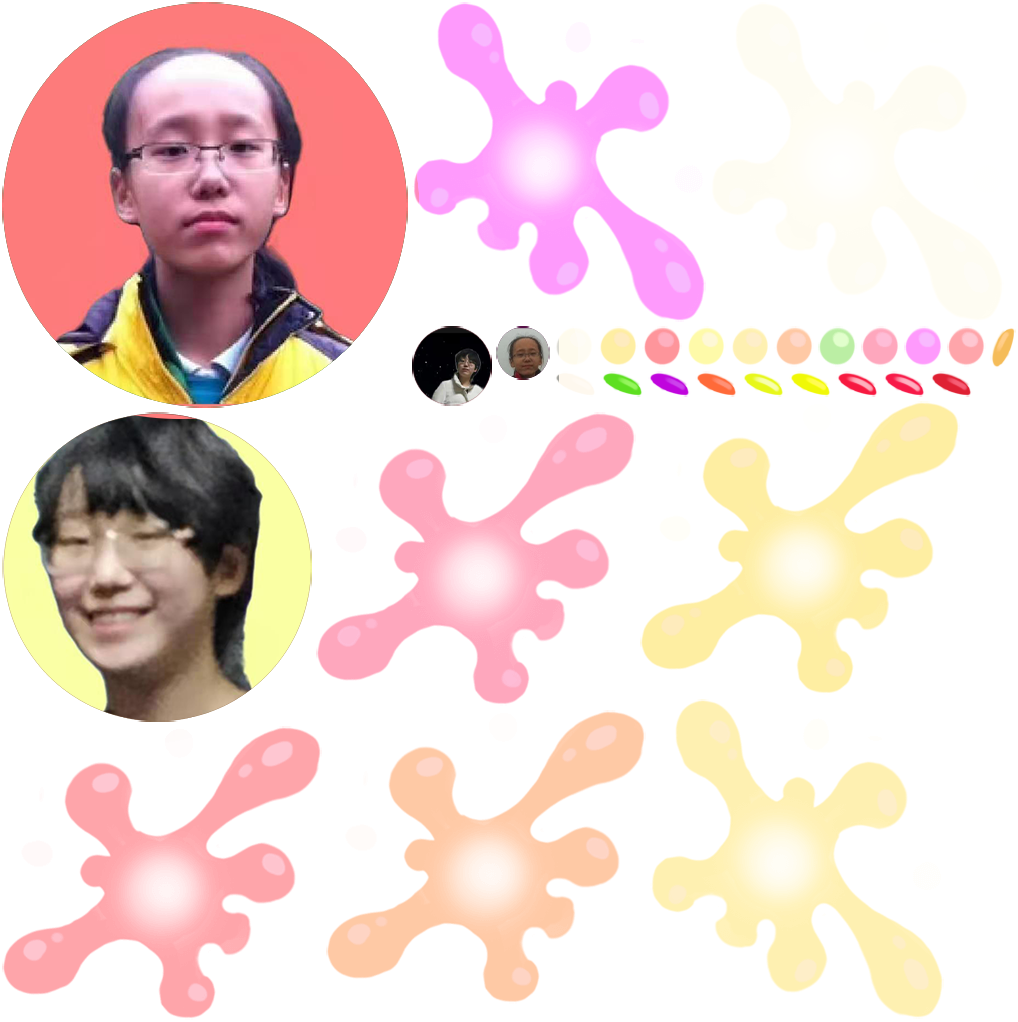
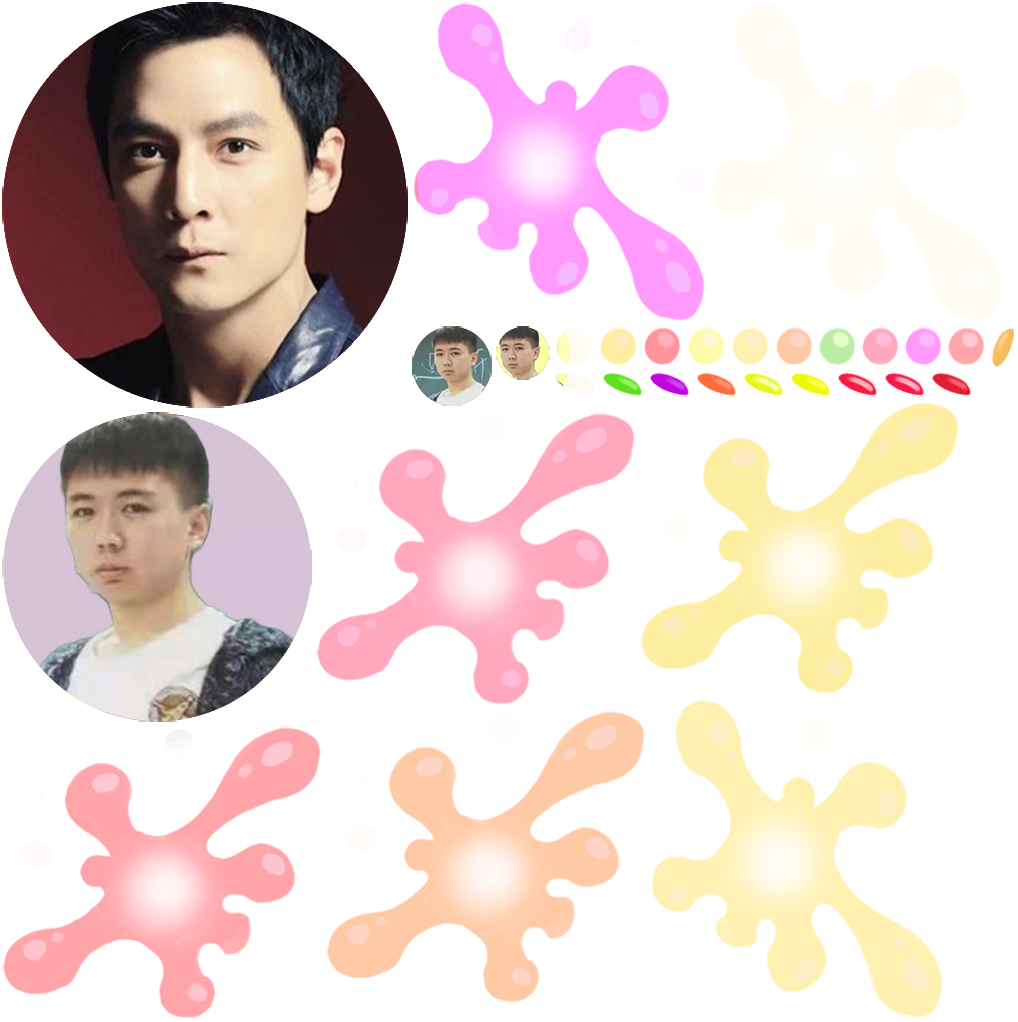
nitial commit

Changed region(s): [[0.0, 0.0, 0.4263, 0.728], [0.3959, 0.3033, 0.5786, 0.3943]]

diff --git a/index.html b/index.html
@@ -4,7 +4,7 @@
 <head>
     <meta charset="utf-8">
 
-    <title>合成大西瓜嗷呜</title>
+    <title>合成冯一笑</title>
 
     <!--http://www.html5rocks.com/en/mobile/mobifying/-->
     <meta name="viewport" content="width=device-width,user-scalable=no,initial-scale=1, minimum-scale=1,maximum-scale=1" />
@@ -109,7 +109,7 @@
             //        console.log("window.navigator.language",window.navigator.language);
 
             if (window.navigator.language == "zh-CN" || window.navigator.language == "zh-cn") {
-                document.title = "合成大西瓜嗷呜";
+                document.title = "合成冯一笑";
             } 
 
 
